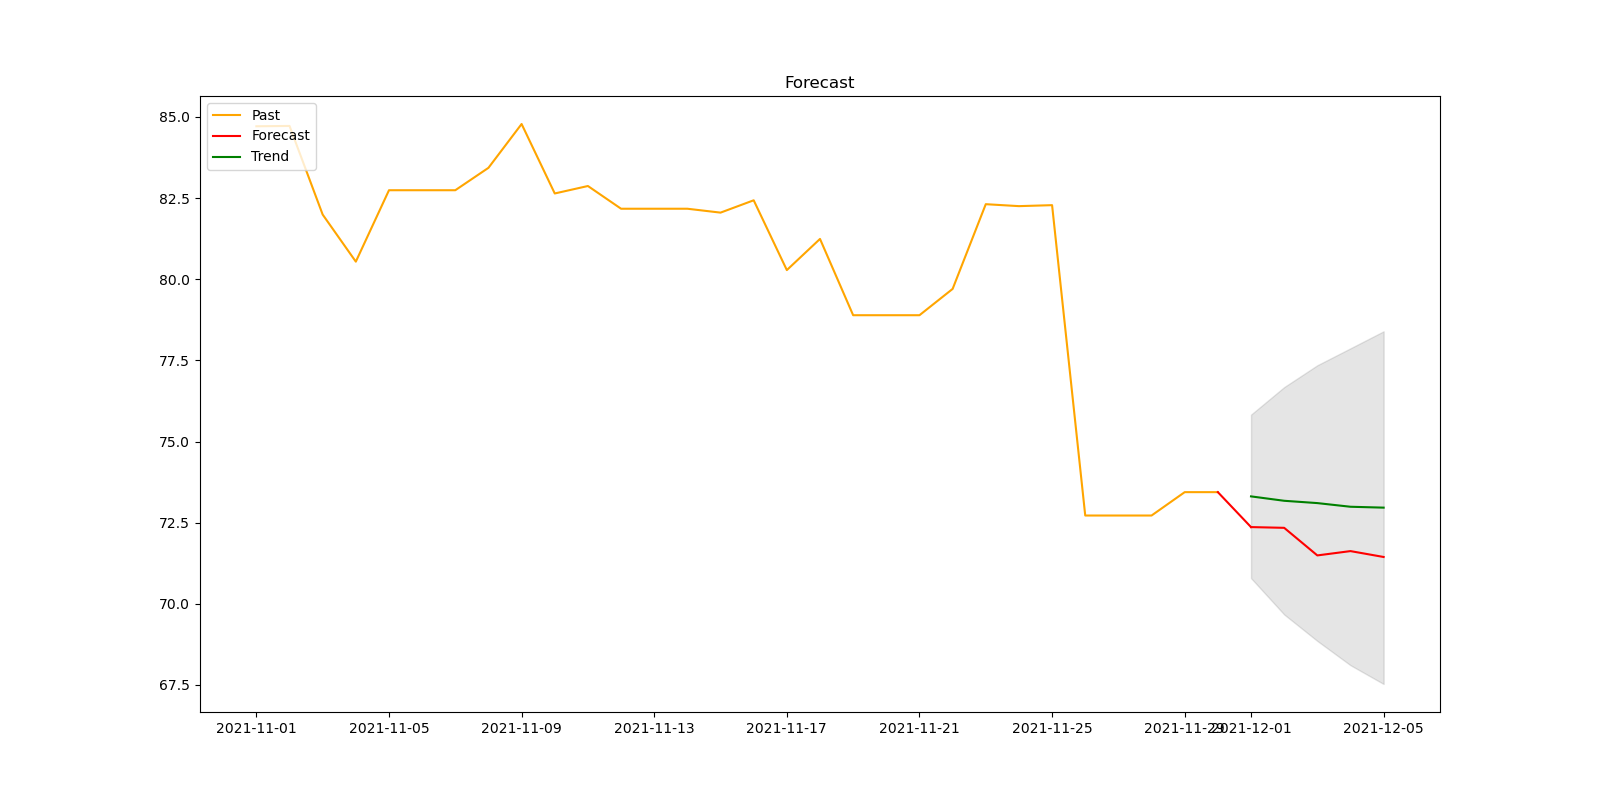
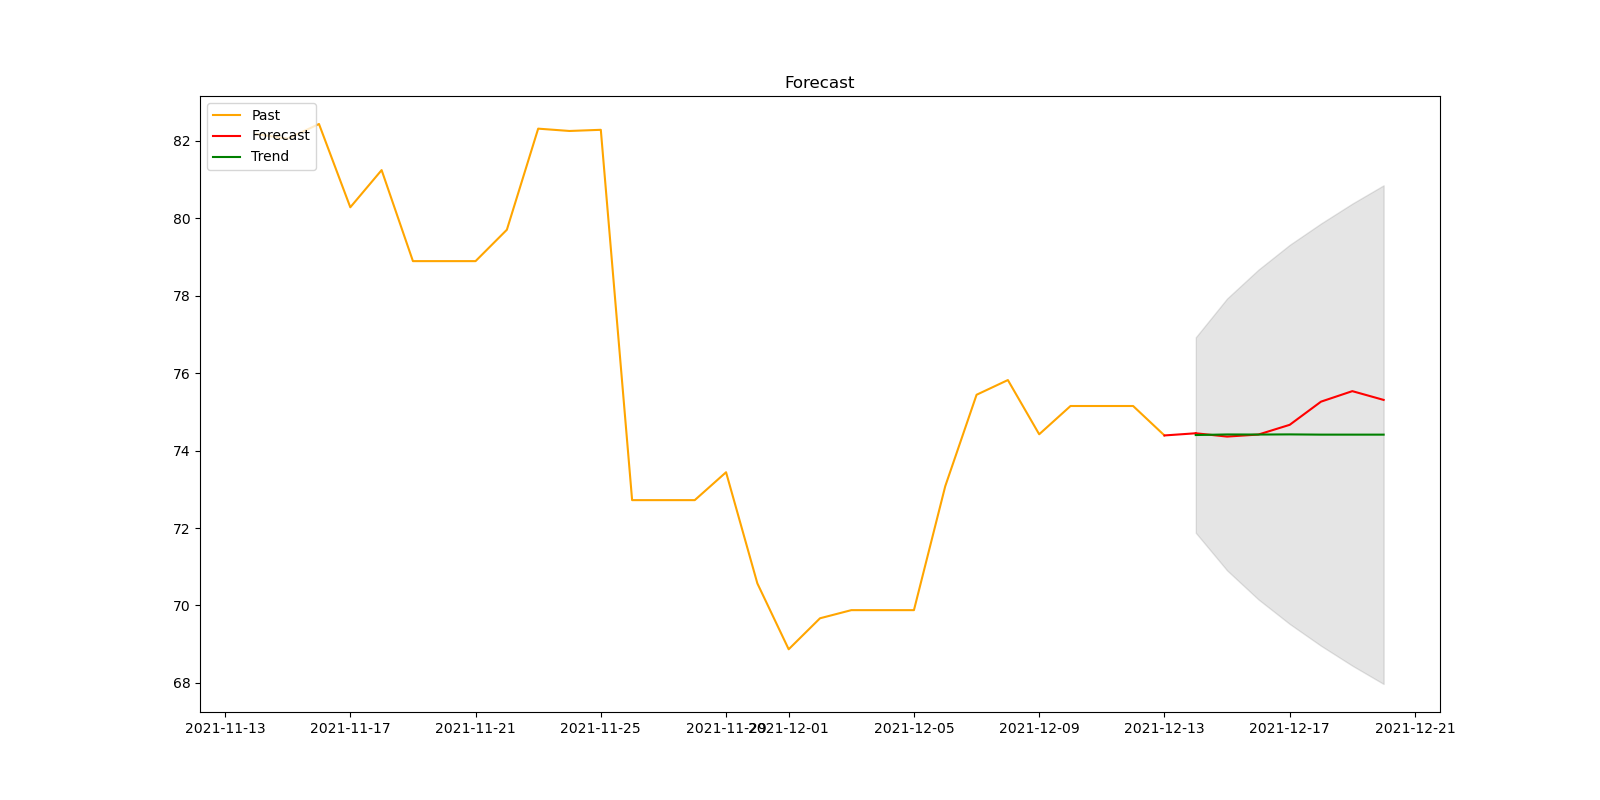
Add files via upload

diff --git a/models.py b/models.py
@@ -2,11 +2,12 @@ def runArimaAndHwaas(days):
     import numpy as np
     import pandas as pd
     import matplotlib.pyplot as plt
+    import datetime
     #Reading data and preprocessing
     data=pd.read_csv('data.csv')
     data['Date']=pd.to_datetime(data['Date'])
     data.set_index('Date',inplace=True)
-    idx = pd.date_range('2007-07-30', '2021-11-30')
+    idx = pd.date_range('2007-07-30', datetime.date.today()-datetime.timedelta(1))
     data = data.reindex(idx, fill_value=0)
     for i in range(len(data)):
         if int(data.iloc[i])==0:
@@ -24,7 +25,7 @@ def runArimaAndHwaas(days):
 
     #Fitting ARIMA model
     from statsmodels.tsa.arima_model import ARIMA
-    model=ARIMA(data,order=(12,1,1))
+    model=ARIMA(data,order=(5,1,0))
     result=model.fit(disp=0)
     fc,se,conf=result.forecast(days)
     fc=pd.Series(fc,index=forecast_out.index)

diff --git a/app.py b/app.py
@@ -2,6 +2,7 @@ from flask import Flask, render_template, url_for, request, redirect
 import numpy as np
 import pandas as pd
 import models
+import datetime
 
 app = Flask(__name__)
 
@@ -30,7 +31,7 @@ def index():
 def download_data():
     import yfinance as yf
     from yahoofinancials import YahooFinancials
-    data = yf.download('BZ=F', start='2007-07-30', end='2021-11-30', progress=False)
+    data = yf.download('BZ=F', start='2007-07-30', end=datetime.date.today(), progress=False)
     data=data.drop(['Open','High','Low','Close','Volume'],axis=1)
     data.columns=['Price']
     data.to_csv('data.csv')
